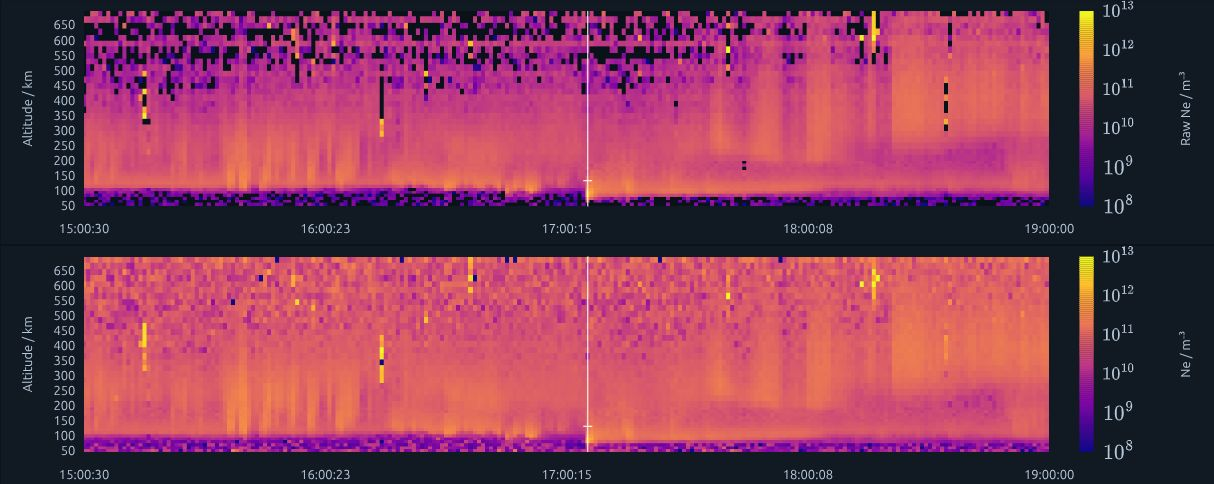
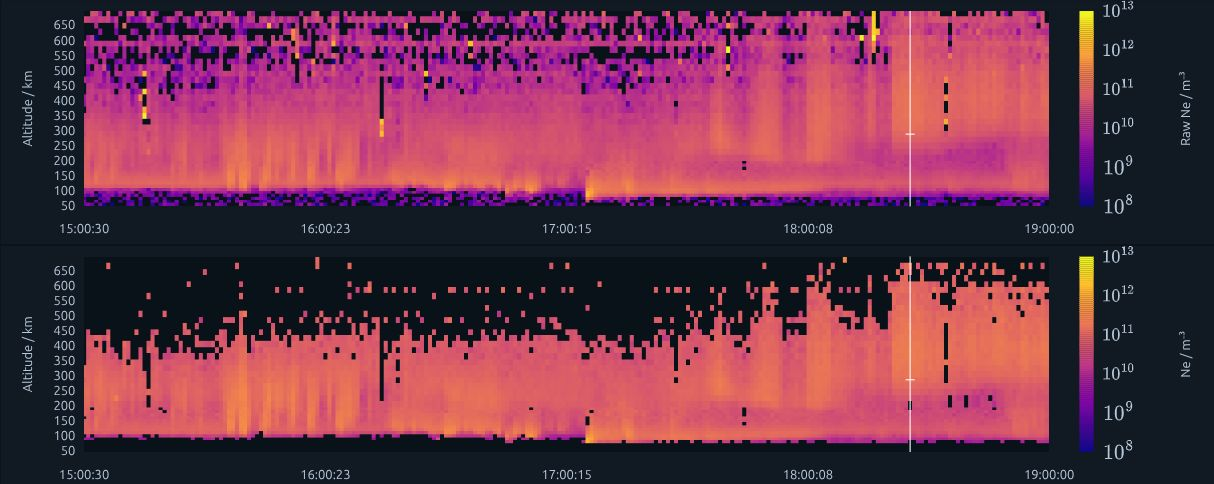
Show screened density and high-SNR F-region ACF in README

diff --git a/README.md b/README.md
@@ -21,8 +21,17 @@ units below. The plasma-line display has the temporal median removed.
 
 One-minute analysis: raw electron-density proxy from the 10 µs ion-line lag
 (top) and fitted electron density (bottom), on shared time and altitude axes.
+Rejected fits are set to NaN in the display; the raw measurements are retained.
 
 ![One-minute raw and fitted electron density](docs/images/ion-density-60s.png)
+
+High-SNR F-region ion-line ACF and spectra: 18:25–18:26 UTC, 277–297 km.
+The first-lag signal-to-noise ratio is 39; the weighted residual score is 0.98.
+This return persists across neighbouring minutes and altitude gates. Grey shows
+measurements; gold shows the fitted response. The lower panels compare the
+measured ACF matrix DFT with the analytical ISR spectrum.
+
+![F-region ion-line ACF and spectra](docs/images/ion-acf-spectrum.png)
 
 ## Documentation
 
